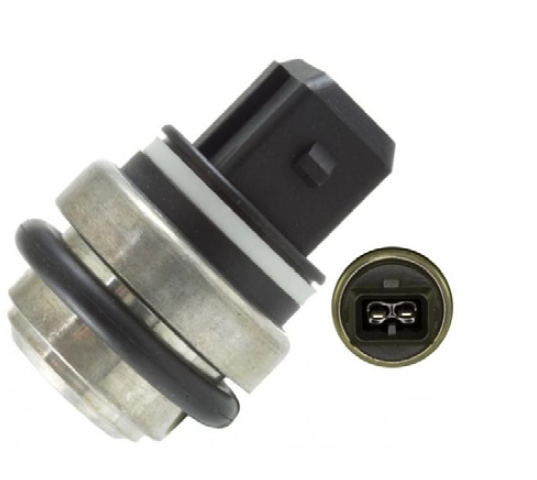
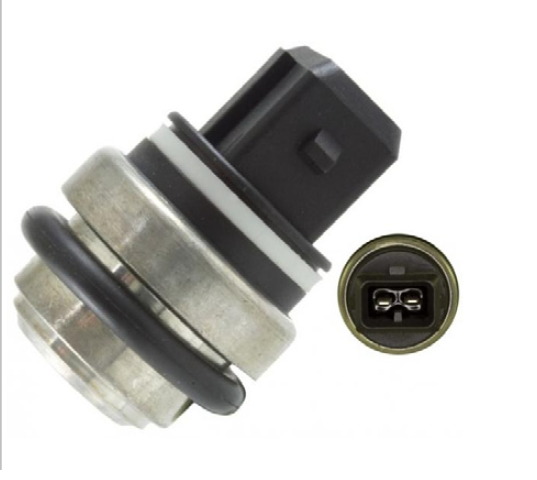
project4

Changed region(s): [[0.0, 0.0, 0.8641, 0.9688], [0.5661, 0.2812, 0.6257, 0.375], [0.5959, 0.4688, 0.6257, 0.5]]

diff --git a/web/4/html/sensores/volkswagen/volkswagen-sensores-principal.html b/web/4/html/sensores/volkswagen/volkswagen-sensores-principal.html
@@ -166,6 +166,14 @@
                     <div class="product-model-name">SD12096</div>
                 </a>
             </div>
+            <div class="product-card simplified-product-card">
+                <a href="/web/4/html/sensores/volkswagen/volskswagen-se-20.html">
+                    <div class="product-image-section">
+                        <img src="/web/4/css/assets/product/sensores/volkswagen/20.png" alt="Bomba SD12097" class="product-image">
+                    </div>
+                    <div class="product-model-name">SD12097</div>
+                </a>
+            </div>
 
             
         </div>
